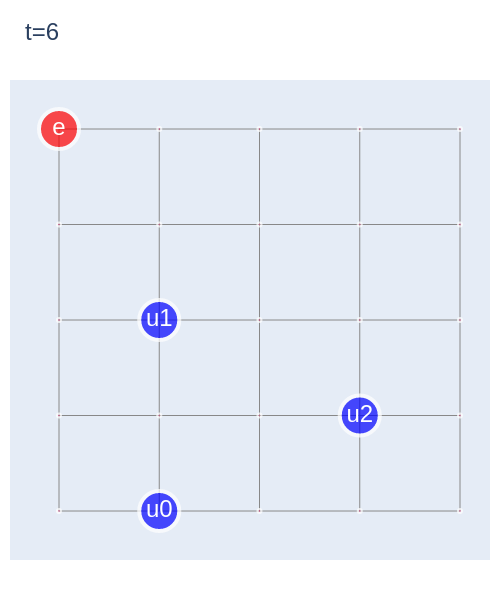
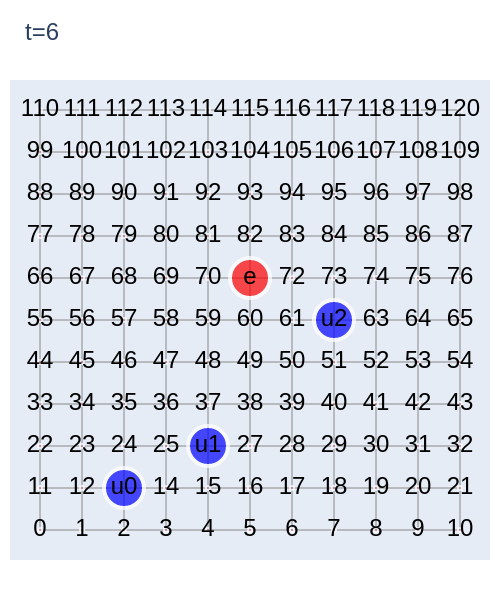
Interactive node navigation sim

Changed region(s): [[0.03, 0.15, 0.96, 0.9], [0.9, 0.51, 0.96, 0.54]]

diff --git a/simdata_utils.py b/simdata_utils.py
@@ -21,6 +21,8 @@ class SimParameters(object):
         self.N = None
         self.nodeid2coord = None
         self.coord2nodeid = None
+        self.coord2labels = None
+        self.labels2coord = None
         self.U = None
         self.L = None
         self.R = None
@@ -28,6 +30,7 @@ class SimParameters(object):
         self.T = None
         self.direction_north = None
         self.start_escape_route = None
+        self.most_northern_y = None
     def __str__(self):
         out = self.graph_type
         out += ', ('+str(self.N)+'x'+str(self.N)+') nodes, ...'
@@ -83,6 +86,8 @@ def DefineSimParameters(config):
         sp.N = config['N']
         sp.nodeid2coord = dict( (i, n) for i,n in enumerate(sp.G.nodes()) )
         sp.coord2nodeid = dict( (n, i) for i,n in enumerate(sp.G.nodes()) )
+        sp.coord2labels = sp.labels
+        sp.labels2coord = dict( (v,k) for k,v in sp.coord2labels.items())
         sp.U = config['U']              # number of pursuer units
         sp.L = config['L']              # Time steps
         sp.R = config['R']              # Number of escape routes sampled 
@@ -90,6 +95,7 @@ def DefineSimParameters(config):
         sp.T = sp.L+1                   # Total steps in time taken (L + start node)
         sp.direction_north = config['direction_north']
         sp.start_escape_route = (sp.N//2,0) # bottom center of grid
+        sp.most_northern_y = max([c[1] for c in sp.G.nodes])
     elif sp.graph_type == 'CircGraph':
         sp.G, sp.labels, sp.pos = CircGraph()#manhattan_graph(N)
         sp.U = config['U']        # number of pursuer units
@@ -101,7 +107,10 @@ def DefineSimParameters(config):
         sp.direction_north = False # (NOT VERY INTERESTING IF TRUE)
         sp.nodeid2coord = dict( (i, n) for i,n in enumerate(sp.G.nodes()) )
         sp.coord2nodeid = dict( (n, i) for i,n in enumerate(sp.G.nodes()) )
+        sp.coord2labels = sp.labels
+        sp.labels2coord = dict( (v,k) for k,v in sp.coord2labels.items())
         sp.start_escape_route = sp.nodeid2coord[9]
+        sp.most_northern_y = max([c[1] for c in sp.G.nodes])
     elif sp.graph_type == 'TKGraph':
         sp.G, sp.labels, sp.pos = TKGraph()#manhattan_graph(N)
         sp.U = config['U']        # number of pursuer units
@@ -113,7 +122,10 @@ def DefineSimParameters(config):
         sp.direction_north = False # (NOT VERY INTERESTING IF TRUE)
         sp.nodeid2coord = dict( (i, n) for i,n in enumerate(sp.G.nodes()) )
         sp.coord2nodeid = dict( (n, i) for i,n in enumerate(sp.G.nodes()) )
+        sp.coord2labels = sp.labels
+        sp.labels2coord = dict( (v,k) for k,v in sp.coord2labels.items())
         sp.start_escape_route = sp.nodeid2coord[0]
+        sp.most_northern_y = max([c[1] for c in sp.G.nodes])
     return sp
 
 def make_dirname(sp):
@@ -207,7 +219,7 @@ def PlotAgentsOnGraph(sp, escape_path, pursuers_path, timesteps, fig_show=False,
         #    node_text.append('a') # of connections: '+str(len(adjacencies[1])))
         colorlist = [1 for _ in range(sp.V)]
         sizelist =  [1 for _ in range(sp.V)]
-        node_text = ['' for _ in range(sp.V)]
+        node_text = [str(sp.coord2labels[c]) for c in sp.G.nodes]
         e = escape_path[-1] if t >= len(escape_path) else escape_path[t]
         colorlist[sp.coord2nodeid[e]]='#FF0000'
         sizelist[sp.coord2nodeid[e]]=20
@@ -221,8 +233,8 @@ def PlotAgentsOnGraph(sp, escape_path, pursuers_path, timesteps, fig_show=False,
         node_trace.marker.size = sizelist
         node_trace.text = node_text
         node_trace.textfont = {
-                #"size":[12 for i in range(sp.V)]
-                "color": ['white' for i in range(sp.V)]
+                "size": [6 for i in range(sp.V)],
+                "color": ['black' for i in range(sp.V)]
             }
         fig = go.Figure(data=[edge_trace, node_trace],
                     layout=go.Layout(

diff --git a/environments.py b/environments.py
@@ -25,9 +25,10 @@ class GraphWorld(object):
         return upos
 
     def _availableActionsInCurrentState(self):
-        reachable_nodes = list(self.sp.G.neighbors(self.state[0]))
-        reachable_directions = [self.vec2dir[(n[0]-self.state[0][0],n[1]-self.state[0][1])] for n in reachable_nodes]
-        return reachable_nodes, reachable_directions
+        reachable_coords = list(self.sp.G.neighbors(self.state[0]))
+        reachable_nodes = [self.sp.coord2labels[c] for c in reachable_coords]
+        reachable_directions = None#[self.vec2dir[(n[0]-self.state[0][0],n[1]-self.state[0][1])] for n in reachable_coords]
+        return {'coords': reachable_coords, 'node_labels': reachable_nodes, 'directions': reachable_directions}
             
     def reset(self, databank_entry=None):
         # if called with databank_entry, a specific saved initial position is loaded
@@ -43,10 +44,11 @@ class GraphWorld(object):
         return self.state
 
     def step(self, next_node):
-        if type(next_node) == str:
-            dir = self.dir2vec[next_node]
-            next_node = (self.state[0][0]+dir[0],self.state[0][1]+dir[1])
+        #if type(next_node) == str:
+        #    dir = self.dir2vec[next_node]
+        #    next_node = (self.state[0][0]+dir[0],self.state[0][1]+dir[1])
         self.t+=1
+        next_node = self.sp.labels2coord[int(next_node)]
         assert next_node in list(self.sp.G.neighbors(self.state[0]))
         new_Upositions = self._getUpositions(self.t) # list
         self.state = tuple([next_node] + new_Upositions)
@@ -55,7 +57,7 @@ class GraphWorld(object):
         if next_node in new_Upositions: # captured
             done=True
             reward += -10
-        if next_node[1] == self.sp.N-1: # northern boundary of manhattan graph reached
+        if next_node[1] == self.sp.most_northern_y: # northern boundary of manhattan graph reached
             done = True
             reward += +10
         return self.state, reward, done, {}
@@ -67,6 +69,8 @@ class GraphWorld(object):
 
 configs = su.GetConfigs() # dict with pre-set configs: "Manhattan5","Manhattan11","CircGraph"
 conf=configs['Manhattan5']
+#conf=configs['Manhattan11']
+#conf=configs['TKGraph']
 conf['direction_north']=False
 env=GraphWorld(conf)
 s=env.reset()
@@ -78,9 +82,12 @@ done=False
 R=0
 env.render()
 while not done:
+    print('Current state:')
     print(s)
-    print(env._availableActionsInCurrentState())
-    dir=input('direction?')
+    print('Available actions:')
+    for k,v in env._availableActionsInCurrentState().items():
+        print('>',k,v)
+    dir=input('Action (new node)?\n> ')
     s,r,done,_=env.step(dir)
     env.render()
     R+=r

diff --git a/sim_graphs.py b/sim_graphs.py
@@ -20,7 +20,7 @@ def graph(N):
     
     G = nx.grid_2d_graph(N,N)
     pos = dict( (n, n) for n in G.nodes() )
-    labels = dict( ((i, j), i * N + j) for i, j in G.nodes() ) # 
+    labels = dict( ((i, j), j* N + i) for i, j in G.nodes() ) # 
     
     return G, labels, pos
 
